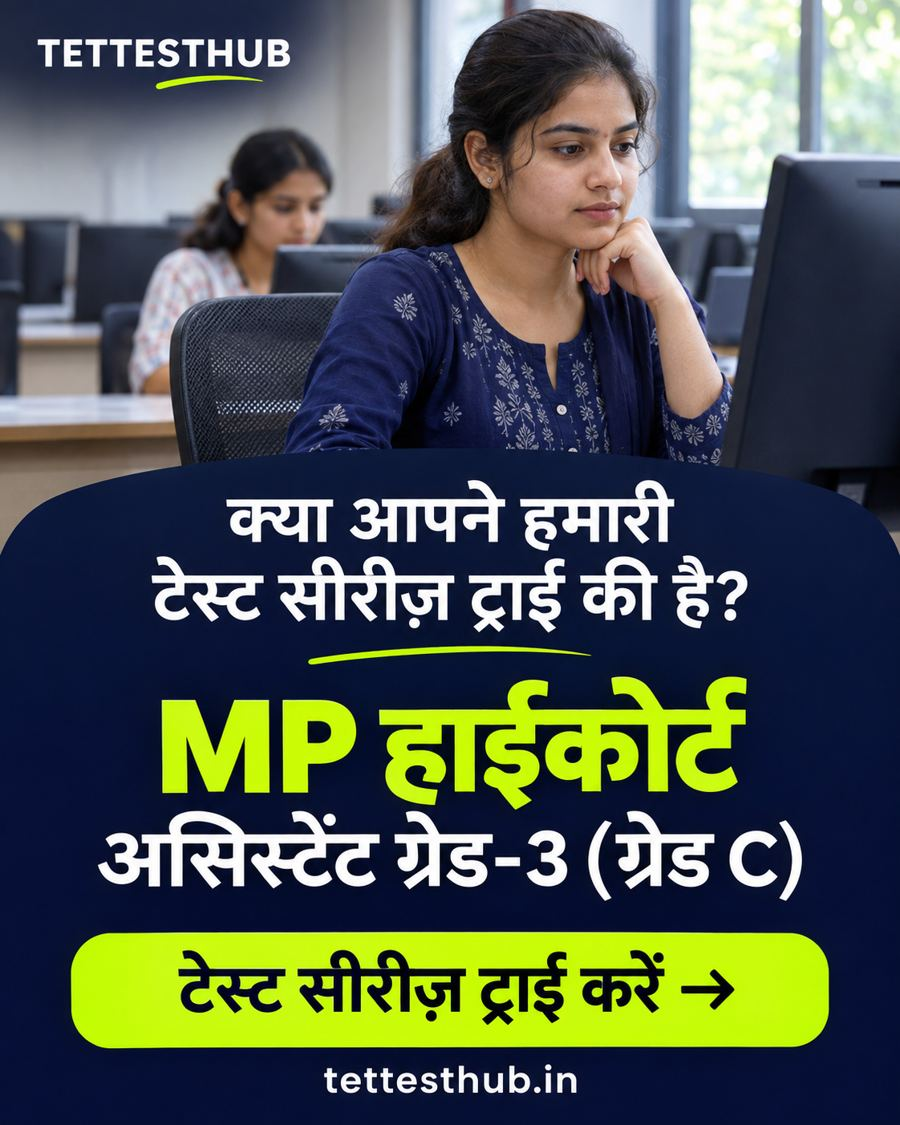
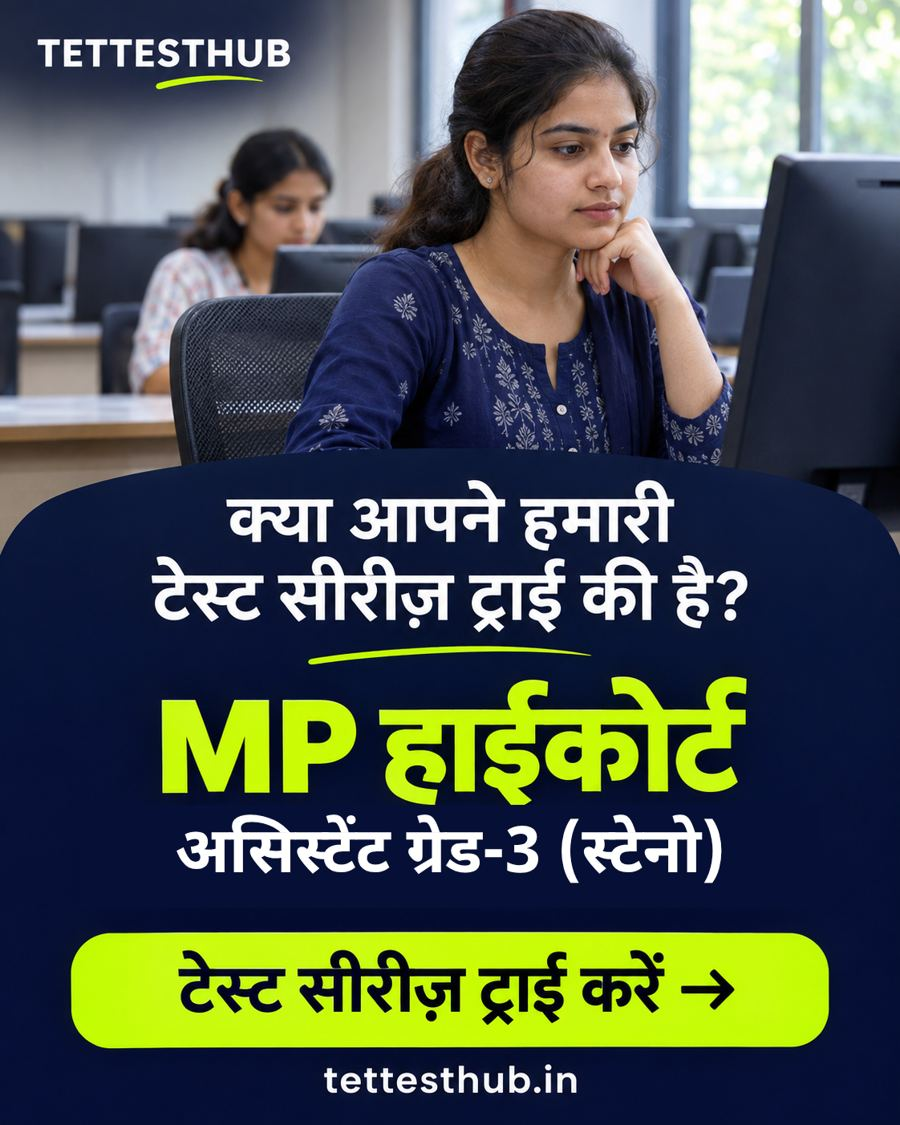
High Court ad page: Steno name + countdown to 25 Nov (#378)
* Add High Court AG-3 15-benefits ad landing page

Claude-Session: https://claude.ai/code/session_018t1ajiJqnu7k6C8VLvPqK3

* Shorten High Court ad landing page to 3 key features

Claude-Session: https://claude.ai/code/session_018t1ajiJqnu7k6C8VLvPqK3

* Add 23/25 Nov exam countdown to High Court ad page

Claude-Session: https://claude.ai/code/session_018t1ajiJqnu7k6C8VLvPqK3

* High Court ad page: clock on top, one Register/Login pair, wording fixes

Claude-Session: https://claude.ai/code/session_018t1ajiJqnu7k6C8VLvPqK3

* High Court ad page: add Steno name, remove exam countdown

Claude-Session: https://claude.ai/code/session_018t1ajiJqnu7k6C8VLvPqK3

* High Court ad page: label as Assistant Grade-3 (Steno)

Claude-Session: https://claude.ai/code/session_018t1ajiJqnu7k6C8VLvPqK3

* High Court ad page: Steno in hero image instead of Grade C

Claude-Session: https://claude.ai/code/session_018t1ajiJqnu7k6C8VLvPqK3

* High Court ad page: countdown to 25 Nov

Claude-Session: https://claude.ai/code/session_018t1ajiJqnu7k6C8VLvPqK3

---------

Changed region(s): [[0.0933, 0.7156, 0.9022, 0.8089]]

diff --git a/examhelp/public/high-court-ad/index.html b/examhelp/public/high-court-ad/index.html
@@ -3,8 +3,8 @@
 <head>
 <meta charset="utf-8">
 <meta name="viewport" content="width=device-width,initial-scale=1">
-<title>MP हाईकोर्ट AG-3 टेस्ट सीरीज़ | TETTESTHUB</title>
-<meta name="description" content="MP हाईकोर्ट असिस्टेंट ग्रेड-3 (ग्रेड C) टेस्ट सीरीज़: 25 फुल मॉक टेस्ट, पहला टेस्ट फ्री। Key features of the MP High Court Assistant Grade-3 test series.">
+<title>MP हाईकोर्ट असिस्टेंट ग्रेड-3 (स्टेनो) टेस्ट सीरीज़ | TETTESTHUB</title>
+<meta name="description" content="MP हाईकोर्ट असिस्टेंट ग्रेड-3 (स्टेनो) टेस्ट सीरीज़: 25 फुल मॉक टेस्ट, पहला टेस्ट फ्री। Key features of the MP High Court Assistant Grade-3 test series.">
 <meta name="robots" content="noindex, follow">
 <meta name="theme-color" content="#0b1640">
 <meta property="og:title" content="MP हाईकोर्ट असिस्टेंट ग्रेड-3 टेस्ट सीरीज़ — पहला टेस्ट फ्री">
@@ -44,7 +44,9 @@ li em{display:block;font-style:normal;color:var(--muted);font-size:13px}
 .price strong{color:var(--lime);font-size:30px}
 .foot{text-align:center;padding:22px 0 10px;font-weight:700;font-size:18px}
 .foot small{display:block;font-weight:500;color:var(--muted);font-size:12px}
-.clock{margin:0 0 14px;text-align:center;background:var(--navy2);border:1px solid rgba(198,244,50,.35);border-radius:16px;padding:14px 10px}
+.tag{margin:0 0 14px;text-align:center;font-weight:800;font-size:18px;color:var(--lime)}
+.tag small{display:block;font-weight:500;font-size:13px;color:var(--muted)}
+.clock{margin:0 0 14px;text-align:center;background:var(--navy2);border:1px solid rgba(198,244,50,.35);border-radius:16px;padding:12px 10px}
 .clock p{margin:0 0 8px;font-weight:700}
 .clock p small{display:block;font-weight:500;color:var(--muted);font-size:13px}
 .cd{display:flex;justify-content:center;gap:8px}
@@ -60,8 +62,10 @@ li em{display:block;font-style:normal;color:var(--muted);font-size:13px}
     <span class="logo">TETTESTHUB</span>
   </header>
 
+  <p class="tag">MP हाईकोर्ट असिस्टेंट ग्रेड-3 (स्टेनो) टेस्ट सीरीज़<small>MP High Court Assistant Grade-3 (Steno) Test Series</small></p>
+
   <div class="clock" id="clock">
-    <p id="clockTitle">परीक्षा 23 और 25 नवंबर को — तैयारी का समय बचा है<small>Exam on 23 &amp; 25 Nov — time left to prepare</small></p>
+    <p>25 नवंबर तक बचा समय<small>Time left till 25 Nov</small></p>
     <div class="cd">
       <div><b id="cdD">0</b><span>दिन / Days</span></div>
       <div><b id="cdH">00</b><span>घंटे / Hrs</span></div>
@@ -70,7 +74,7 @@ li em{display:block;font-style:normal;color:var(--muted);font-size:13px}
     </div>
   </div>
 
-  <img class="hero" src="hero.jpg" width="900" height="1125" alt="MP हाईकोर्ट असिस्टेंट ग्रेड-3 (ग्रेड C) टेस्ट सीरीज़ — TETTESTHUB">
+  <img class="hero" src="hero.jpg" width="900" height="1125" alt="MP हाईकोर्ट असिस्टेंट ग्रेड-3 (स्टेनो) टेस्ट सीरीज़ — TETTESTHUB">
 
   <div class="cta js-out">
     <a class="btn btn-lime js-reg" href="/login.html?mode=signup">नया रजिस्टर करें — फ्री टेस्ट दें<small>Register free (1 minute)</small></a>
@@ -81,7 +85,7 @@ li em{display:block;font-style:normal;color:var(--muted);font-size:13px}
     <a class="btn btn-line" href="/examhelp/mp-high-court-assistant-grade-3-test-series/">सभी 25 टेस्ट देखें<small>See all 25 tests</small></a>
   </div>
   <h1>टेस्ट सीरीज़ की <span>3 प्रमुख बातें</span></h1>
-  <p class="sub">MP हाईकोर्ट असिस्टेंट ग्रेड-3 (ग्रेड C)<br>3 key features of the test series</p>
+  <p class="sub">MP हाईकोर्ट असिस्टेंट ग्रेड-3 (स्टेनो)<br>3 key features of the test series</p>
   <div class="bar"></div>
 
   <ol>
@@ -110,16 +114,13 @@ li em{display:block;font-style:normal;color:var(--muted);font-size:13px}
     document.querySelectorAll('.js-out').forEach(function(el){ el.hidden = true; });
     document.querySelectorAll('.js-in').forEach(function(el){ el.hidden = false; });
   }
-  // Countdown to the exam days (23 and 25 Nov 2026, IST). Hidden after 25 Nov.
-  var days = [new Date('2026-11-23T00:00:00+05:30'), new Date('2026-11-25T00:00:00+05:30')];
+  // Countdown to the end of 25 Nov 2026 (IST). Hidden after that.
+  var end = new Date('2026-11-25T23:59:59+05:30').getTime();
   var box = document.getElementById('clock');
   function pad(n){ return (n < 10 ? '0' : '') + n; }
   function tick(){
-    var now = Date.now(), target = null;
-    for (var i = 0; i < days.length; i++) { if (days[i].getTime() > now) { target = days[i]; break; } }
-    if (!target) { box.hidden = true; return; }
-    if (target === days[1]) document.getElementById('clockTitle').innerHTML = '25 नवंबर की परीक्षा में समय बचा है<small>Time left for the 25 Nov exam</small>';
-    var t = Math.floor((target.getTime() - now) / 1000);
+    var t = Math.floor((end - Date.now()) / 1000);
+    if (t <= 0) { box.hidden = true; return; }
     document.getElementById('cdD').textContent = Math.floor(t / 86400);
     document.getElementById('cdH').textContent = pad(Math.floor(t % 86400 / 3600));
     document.getElementById('cdM').textContent = pad(Math.floor(t % 3600 / 60));
